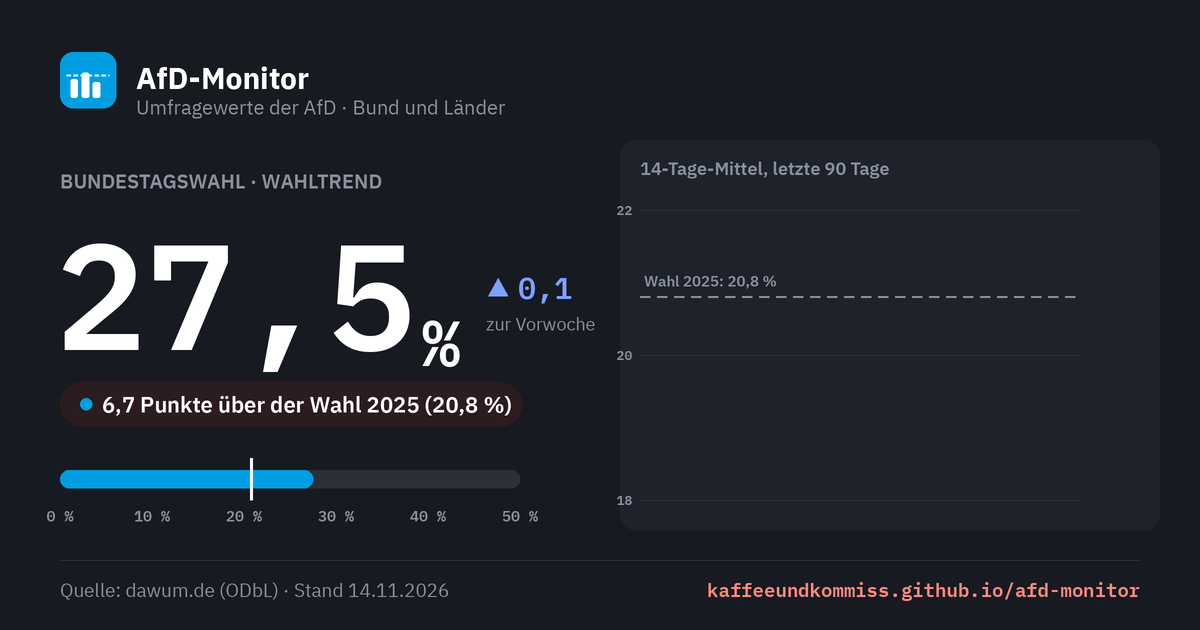
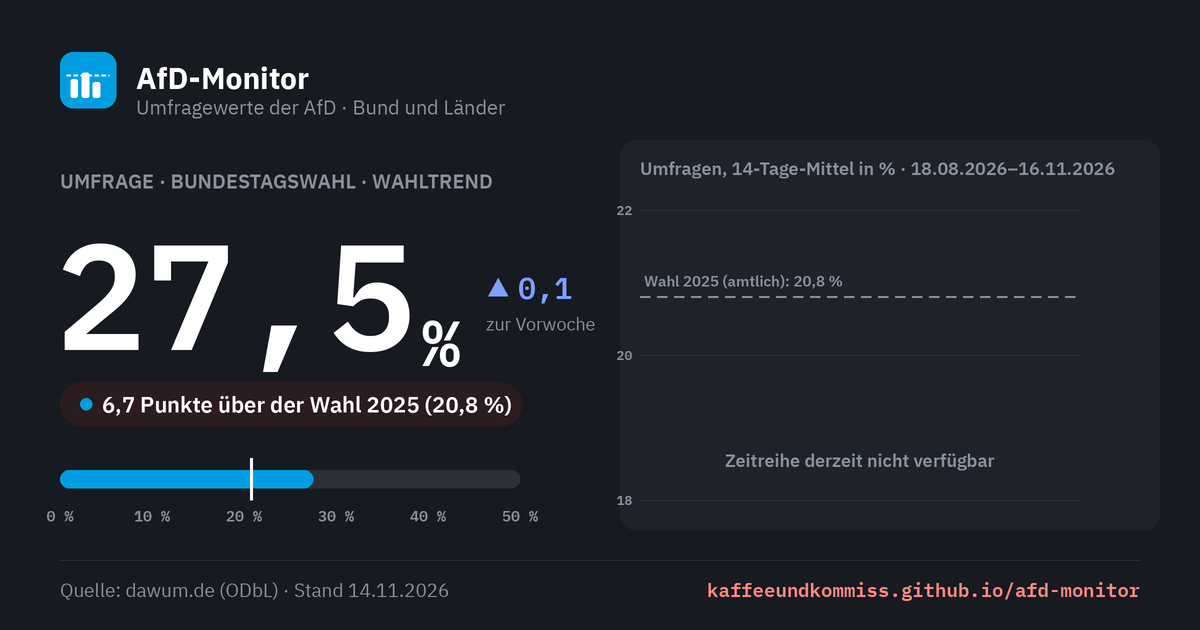
Diagramme eindeutig beschriften: Umfrage, amtliches Ergebnis, Chronik
Kennzeichen je Diagramm, Einheit, Zeitraum und Stand; Vorschaubilder
(og/make-og.py) mit derselben Kennzeichnung, damit das wöchentliche
Update die Beschriftung nicht überschreibt.

Claude-Session: https://claude.ai/code/session_01AuP7hKA5r64Vaqp6wB3yAR

diff --git a/index.html b/index.html
@@ -133,6 +133,9 @@
   .liste .lkopf{display:flex;justify-content:space-between;align-items:baseline;padding-bottom:8px;border-bottom:1px solid var(--line)}
   .liste .lkopf h3{margin:0;font-size:15px;font-weight:600}
   .liste .lkopf .skl{font-size:13px;color:var(--mute)}
+  .liste .llegende{margin:8px 0 0;font-size:13px;color:var(--mute)}
+  .abschnitt-legende{margin:6px 0 0;font-size:13px;color:var(--mute);max-width:46em}
+  .kachel .wart{font-size:12px;font-weight:600;color:var(--mute);margin-top:6px}
   .inst-zeile{display:grid;grid-template-columns:150px 1fr 60px;align-items:center;gap:14px;padding:7px 0;border-bottom:1px solid var(--hair)}
   .inst-zeile .nam{font-weight:500;font-size:14px;white-space:nowrap;overflow:hidden;text-overflow:ellipsis}
   .inst-zeile .dat{font-family:var(--mono);font-size:13px;color:var(--mute)}
@@ -240,7 +243,7 @@
   }
 .einstieg{margin:0 0 -20px;max-width:40em;color:var(--mute);font-size:16px;line-height:1.5}
 </style>
-<link rel="stylesheet" href="bereich.css?v=2">
+<link rel="stylesheet" href="bereich.css?v=3">
 </head>
 <body>
 <div class="kk-leiste"><div class="kk-in">
@@ -280,23 +283,28 @@
   <section id="bund-hero" aria-labelledby="bund-titel" data-teilen="Bundestagswahl"></section>
 
   <section id="bund-verlauf" class="karte verlauf" aria-labelledby="verlauf-titel" data-teilen="Zeitverlauf Bund" hidden>
+    <span class="art umfrage">Umfragen</span>
     <h2 id="verlauf-titel">AfD im Zeitverlauf · Bund</h2>
     <p class="sub" id="verlauf-sub">Punkte: Einzelumfragen · Linie: 14-Tage-Mittel</p>
     <div id="verlauf-chart" class="fv-chart"></div>
-    <p class="fv-quelle">Quelle: <a href="https://dawum.de/Bundestag/" rel="noopener">dawum.de</a> · 14-Tage-Mittel ungewichtet</p>
+    <p class="fv-quelle" id="verlauf-quelle">Quelle: <a href="https://dawum.de/Bundestag/" rel="noopener">dawum.de</a> (ODbL) · 14-Tage-Mittel ungewichtet</p>
   </section>
 
   <section id="anstehend" aria-labelledby="anstehend-titel" data-teilen="Anstehende Wahlen">
+    <span class="art umfrage">Umfragen</span>
     <div class="kopfzeile">
       <h2 id="anstehend-titel">Anstehende Wahlen</h2>
       <span class="hint">nächster Termin zuerst</span>
     </div>
+    <p class="abschnitt-legende">Große Zahl: Umfragewert in % (Wahltrend, sonst Ø der neuesten Umfrage je Institut), kein Ergebnis. Balken 0–50 %, gestrichelt: amtliches Ergebnis der letzten Wahl im Land.</p>
     <div class="kacheln" id="anstehend-grid" style="margin-top:16px"></div>
-    <p class="quelle">Quelle: <a href="https://dawum.de" rel="noopener">dawum.de</a> (ODbL) · ohne Wahltrend: Ø der neuesten Umfrage je Institut · Vergleich: amtliches Ergebnis der letzten Wahl im Land</p>
+    <p class="quelle">Quelle: <a href="https://dawum.de" rel="noopener">dawum.de</a> (ODbL) · ohne Wahltrend: Ø der neuesten Umfrage je Institut · Vergleich: amtliches Ergebnis der letzten Wahl im Land<span id="anstehend-stand"></span></p>
   </section>
 
   <section id="gelaufen" aria-labelledby="gelaufen-titel" data-teilen="Gelaufene Wahlen" data-quelle="amtliche Endergebnisse der Landeswahlleitungen" hidden>
+    <span class="art amtlich">Amtliche Ergebnisse</span>
     <div class="kopfzeile"><h2 id="gelaufen-titel">Gelaufene Wahlen</h2></div>
+    <p class="abschnitt-legende">Amtliche Endergebnisse in %, Quelle je Zeile. Zur Vorwahl: Veränderung in Prozentpunkten. Balken 0–50 %, gestrichelt: Ergebnis der Wahl davor.</p>
     <div class="karte tabelle" id="gelaufen-tabelle" style="margin-top:16px"></div>
   </section>
 </main>
@@ -480,6 +488,10 @@
     return '';
   }
 
+  // Kennzeichen über jedem Diagramm: Umfrage oder amtliches Ergebnis (Gestaltung in bereich.css).
+  const artMarke = (art) => art === 'amtlich'
+    ? '<span class="art amtlich">Amtliches Ergebnis</span>' : '<span class="art umfrage">Umfragen</span>';
+
   const gruppen = gruppiereEbenen(data.ebenen || [], NOW);
 
   // ---------- Bund-Hero ----------
@@ -506,6 +518,7 @@
 
     heroEl.innerHTML = `<div class="karte hero">
       <div class="zahlen">
+        ${artMarke(lz.art === 'ergebnis' ? 'amtlich' : 'umfrage')}
         <h2 class="ueberschrift" id="bund-titel">${esc(bund.name)} · ${
           lz.art === 'trend' ? 'Wahltrend' : lz.art === 'ergebnis' ? 'Amtliches Ergebnis' : 'Ø der Umfragen'}</h2>
         <div class="leitzahl">
@@ -521,7 +534,7 @@
             ${balken(lz.wert, ref, (ref ? '<div class="marklbl">Wahl ' + esc(ref.jahr) + ': ' + pz(ref.wert) + '</div>' : '') + punkte)}
           </div>
           <div class="achse"><span>0 %</span><span>10 %</span><span>20 %</span><span>30 %</span><span>40 %</span><span>50 %</span></div>
-          <div class="legende">Balken: ${lz.art === 'trend' ? 'Wahltrend' : 'Leitzahl'} · Punkte: Einzelumfragen${ref ? ' · gestrichelt: Ergebnis der Wahl ' + esc(ref.jahr) : ''}</div>
+          <div class="legende">Angaben in %. Balken: ${lz.art === 'trend' ? 'Wahltrend (Umfragen)' : lz.art === 'ergebnis' ? 'amtliches Ergebnis' : 'Ø der Umfragen'} · Punkte: Einzelumfragen${ref ? ' · gestrichelt: amtliches Ergebnis der Wahl ' + esc(ref.jahr) : ''}</div>
         </div>
         <dl class="kennzahlen">
           <div><dt>Ø neueste Umfrage je Institut</dt><dd>${lz.avg == null ? '–' : pz(lz.avg)}</dd></div>
@@ -539,6 +552,7 @@
           <div class="lkopf">
             <h3>Neueste Umfrage je Institut</h3><span class="skl">Skala 0–50 %</span>
           </div>
+          <p class="llegende">Balken: Umfragewert in %${ref ? ' · gestrichelt: amtliches Ergebnis der Wahl ' + esc(ref.jahr) : ''}</p>
           ${rows.length ? rows.slice().sort((a, b) => (b.datum || '').localeCompare(a.datum || '')).map((r) =>
             `<div class="inst-zeile">
                <div><div class="nam">${esc(r.institut)}</div><div class="dat">${dfmt(r.datum)}</div></div>
@@ -584,8 +598,17 @@
     }
     const linie = gleitendesMittel(punkte, FENSTER);
     const sub = document.getElementById('verlauf-sub');
-    if(sub) sub.textContent = `Letzte ${TAGE} Tage · Punkte: Einzelumfragen · `
-      + `Linie: ${FENSTER}-Tage-Mittel`;
+    // Zeitraum und Stand als Datum, nicht nur "letzte 90 Tage": ein Screenshot muss
+    // auch Wochen später noch sagen, welches Fenster er zeigt.
+    const refV = vw(bund);
+    const bisT = NOW || new Date();
+    const vonT = new Date(Date.UTC(bisT.getUTCFullYear(), bisT.getUTCMonth(), bisT.getUTCDate()) - TAGE * 864e5);
+    const isoT = (t) => new Date(t).toISOString().slice(0, 10);
+    if(sub) sub.textContent = `Umfragewerte Bundestagswahl in %, ${dfmt(isoT(vonT))}–${dfmt(isoT(bisT))} `
+      + `(letzte ${TAGE} Tage) · Punkte: Einzelumfragen · Linie: ${FENSTER}-Tage-Mittel`
+      + (refV ? ` · gestrichelt: amtliches Ergebnis ${refV.jahr}` : '');
+    const vq = document.getElementById('verlauf-quelle');
+    if(vq) vq.append(` · letzte Umfrage vom ${dfmt(isoT(punkte[punkte.length - 1].t))}`);
 
     const NS = 'http://www.w3.org/2000/svg';
     const el = (n, a, eltern) => { const e = document.createElementNS(NS, n);
@@ -664,7 +687,7 @@
       // Beschriftung der letzten Wahl erst nach den Punkten zeichnen: so liegt ihr Hof
       // über den Umfragepunkten und die Angabe bleibt auch am Handy lesbar.
       if(ref) el('text', {x: ml + 4, y: Y(ref.wert) - 6, 'font-size': 12, 'font-weight': 600,
-        class: 'fv-frei', fill: 'var(--fv-vorwahl)'}, svg).textContent = 'Wahl ' + ref.jahr + ': ' + fmt(ref.wert) + ' %';
+        class: 'fv-frei', fill: 'var(--fv-vorwahl)'}, svg).textContent = 'Wahl ' + ref.jahr + ' (amtlich): ' + fmt(ref.wert) + ' %';
 
       const letzte = linie[linie.length - 1];
       el('text', {x: Math.min(X(letzte.t) + 6, W - 4), y: Y(letzte.v), dy: '0.32em',
@@ -758,6 +781,7 @@
         </div>
         ${tage != null ? `<span class="tage">in ${tage} T.</span>` : ''}
       </div>
+      <div class="wart">${lz.art === 'ergebnis' ? 'Amtliches Ergebnis' : lz.art === 'trend' ? 'Umfrage · Wahltrend' : 'Umfrage · Ø'}</div>
       <div class="wert">
         <span class="num">${lz.wert == null ? '–' : pz(lz.wert)}</span>
         <span class="pill ${h.status}">${esc(datenhinweis ? 'nicht ausgewiesen' : h.kurz)}</span>
@@ -780,8 +804,8 @@
     document.getElementById('gelaufen-tabelle').innerHTML = `<table>
       <thead><tr>
         <th>Wahl</th><th>Datum</th>
-        <th style="text-align:right">Ergebnis</th>
-        ${mitTrend ? '<th style="text-align:right">Letzter Trend</th>' : ''}
+        <th style="text-align:right">Ergebnis (amtl.)</th>
+        ${mitTrend ? '<th style="text-align:right">Letzter Wahltrend (Umfrage)</th>' : ''}
         <th class="vgl" style="text-align:right">Zur Vorwahl</th>
         <th class="abstand">Ergebnis und Vorwahl</th>
       </tr></thead>
@@ -798,7 +822,7 @@
         return `<tr id="zeile-${esc(e.id)}">
           <td class="wahl">${esc(teileName(e.name).land)}${beleg}</td>
           <td class="mono">${dfmt(e.wahltermin)}</td>
-          <td class="erg">${lz.wert != null ? pz(lz.wert) + (erg.vorlaeufig ? ' *' : '') : '–'}${vgl
+          <td class="erg">${lz.wert != null ? pz(lz.wert) + (lz.art !== 'ergebnis' ? ' (Umfrage)' : erg.vorlaeufig ? ' *' : '') : '–'}${vgl
             ? '<span class="vgl-kurz">' + vgl + ' zu ' + esc(vw(e).jahr) + '</span>' : ''}</td>
           ${mitTrend ? `<td class="trend">${t.wert != null ? pz(t.wert) : '–'}</td>` : ''}
           <td class="vgl" title="${vgl ? 'Wahl ' + esc(vw(e).jahr) + ': ' + pz(vw(e).wert) : ''}">${vgl || '–'}</td>
@@ -808,6 +832,13 @@
       ${gelaufen.some((e) => (e.wahlergebnis || {}).vorlaeufig)
         ? '<p class="basis" style="padding:0 20px 14px">* vorläufiges amtliches Ergebnis</p>' : ''}`;
   }
+
+  const standSeite = SNAP ? 'Momentaufnahme ' + kwText(SNAP) : data.erstellt ? 'Stand ' + dfmt(data.erstellt) : '';
+  const ast = document.getElementById('anstehend-stand');
+  // Die Kacheln zeigen live abgerufene Umfragen, wenn dawum erreichbar war – dann gilt deren Stand.
+  const liveStand = !SNAP && db && db.Database && db.Database.Last_Update;
+  if(ast) ast.textContent = liveStand ? ' · Umfragen live, Datenbank-Stand ' + dfmt(liveStand)
+    : standSeite ? ' · ' + standSeite : '';
 
   // Link- und Bild-Knöpfe erst jetzt: die Abschnitte sind gerendert, und ein #Anker
   // aus einem geteilten Link kann angesprungen werden.

diff --git a/partei-seite.js b/partei-seite.js
@@ -15,6 +15,8 @@
       .map((b) => `<a href="${esc(b.url)}" rel="noopener">${esc(b.name)}</a>`);
     const hinweis = (d.belege_hinweis || {})[k];
     const teile = [links.length ? 'Quelle: ' + links.join(' · ') : '', hinweis ? esc(hinweis) : ''].filter(Boolean);
+    if(teile.length && d.stand && ['wahlen', 'zeitleiste', 'vorsitz'].includes(k))
+      teile.push('· Stand ' + dfmt(d.stand) + ' (zuletzt geprüft)');
     if(teile.length) p.innerHTML = teile.join(' '); else p.remove();
   });
 
@@ -66,8 +68,8 @@
   if(k && $('kennzahlen')){
     const regierung = d.wahlen.filter((w) => w.rolle === 'Regierung').length;
     document.getElementById('kennzahlen').innerHTML = [
-      ['Bestes Ergebnis', fmt(k.best.ergebnis) + ' %', 'Bundestagswahl ' + k.best.jahr, ''],
-      ['Letztes Ergebnis', fmt(k.letzte.ergebnis) + ' %', 'Bundestagswahl ' + k.letzte.jahr + ' · ' + k.letzte.rolle, ''],
+      ['Bestes Ergebnis', fmt(k.best.ergebnis) + ' %', 'Bundestagswahl ' + k.best.jahr + ' · amtlich', ''],
+      ['Letztes Ergebnis', fmt(k.letzte.ergebnis) + ' %', 'Bundestagswahl ' + k.letzte.jahr + ' · amtlich · danach ' + k.letzte.rolle, ''],
       ['In Regierung danach', regierung + ' von ' + k.anzahl, 'Wahlperioden nach den Wahlen ' + d.wahlen[0].jahr + '–' + k.letzte.jahr, ''],
     ].map(([l, n, s, c]) => `<div class="karte"><div class="lbl">${esc(l)}</div><div class="num ${c}">${esc(n)}</div><div class="sub">${esc(s)}</div></div>`).join('');
   }
@@ -80,6 +82,10 @@
     document.querySelector('#tabelle-vs tbody').innerHTML = (vs.schritte || []).map((x) =>
       `<tr><td class="datum">${dfmt(x.datum)}</td><td>${esc(x.stelle)}</td><td>${esc(x.schritt)}</td><td>${esc(x.rechtsstand)}</td></tr>`).join('');
   }
+
+  // ---------- Zeitraum je Diagramm (Titel/Untertitel) ----------
+  if((d.wahlen || []).length && $('wahlen-titel'))
+    $('wahlen-titel').textContent = 'Bundestagswahlen ' + d.wahlen[0].jahr + '–' + d.wahlen[d.wahlen.length - 1].jahr;
 
   // ---------- Bundesvorsitzende: Kennzahlen und Tabelle ----------
   // Laufende Amtszeit zählt bis heute, deshalb einmal beim Laden berechnet.
@@ -114,6 +120,7 @@
     const mt = 4, mb = 24, zh = 24, H = mt + zeiten.length * zh + mb;
     svg.setAttribute('viewBox', `0 0 ${W} ${H}`);
     const von = Date.UTC(Math.min(...zeiten.map((z) => new Date(z.a).getUTCFullYear())), 0, 1), bis = Math.max(...zeiten.map((z) => z.b));
+    if($('vorsitz-zeitraum')) $('vorsitz-zeitraum').textContent = 'Zeitraum ' + new Date(von).getUTCFullYear() + ' bis heute, x-Achse in Jahren. ';
     const X = (t) => ml + (t - von) / (bis - von) * (W - ml - mr);
     const tip = tooltip(host);
     // Achsenschritt nach Spannweite: bei wenigen Jahren (AfD seit 2013) alle zwei bzw. vier Jahre.
@@ -139,7 +146,7 @@
   function wahlen(){
     const host = document.getElementById('chart-wahlen'); host.replaceChildren();
     const rows = d.wahlen, W = Math.max(280, host.clientWidth), H = 250, schmal = W < 420;
-    const ml = 30, mr = 6, mt = 22, mb = 26;
+    const ml = schmal ? 30 : 42, mr = 6, mt = 22, mb = 26;
     const yMax = Math.max(16, Math.ceil(Math.max(...rows.map((r) => r.ergebnis)) / 10) * 10);
     const band = (W - ml - mr) / rows.length, bw = Math.min(32, band * 0.62);
     const X = (i) => ml + i * band + band / 2, Y = (v) => H - mb - v / yMax * (H - mt - mb);
@@ -148,7 +155,7 @@
     const tip = tooltip(host);
     for(let v = 0; v <= yMax; v += 10){
       el('line', {x1: ml, x2: W - mr, y1: Y(v), y2: Y(v), stroke: 'var(--line)'}, svg);
-      txt(svg, {x: ml - 6, y: Y(v), dy: '0.32em', 'text-anchor': 'end'}, v);
+      txt(svg, {x: ml - 6, y: Y(v), dy: '0.32em', 'text-anchor': 'end'}, schmal ? v : v + ' %');
     }
     rows.forEach((r, i) => {
       const b = el('rect', {x: X(i) - bw / 2, y: Y(r.ergebnis), width: bw, height: Y(0) - Y(r.ergebnis),
@@ -170,6 +177,7 @@
     const host = document.getElementById('chart-zeit'); host.replaceChildren();
     const jetzt = new Date();
     const von = Date.UTC(d.zeitleiste_ab || 1998, 0, 1), bis = Date.UTC(jetzt.getUTCFullYear(), jetzt.getUTCMonth(), jetzt.getUTCDate());
+    if($('zeit-zeitraum')) $('zeit-zeitraum').textContent = 'Zeitraum ' + new Date(von).getUTCFullYear() + ' bis heute. ';
     const balken = PU.zeitBalken(d.zeitleiste, von, bis);
     const W = Math.max(280, host.clientWidth), ml = 4, mr = 4, mt = 4, mb = 24, lh = 26, kopf = 16;
     const H = mt + SPUREN.length * (lh + kopf + 4) + mb;

diff --git a/partei.html b/partei.html
@@ -33,7 +33,7 @@
 <link href="https://fonts.googleapis.com/css2?family=Barlow+Condensed:wght@500;600;700&family=IBM+Plex+Sans:wght@400;500;600;700&family=IBM+Plex+Mono:wght@400;500;600&display=swap" rel="stylesheet">
 <link rel="stylesheet" href="basis.css">
 <link rel="stylesheet" href="partei.css?v=2">
-<link rel="stylesheet" href="bereich.css?v=2">
+<link rel="stylesheet" href="bereich.css?v=3">
 </head>
 <body>
 <div class="kk-leiste"><div class="kk-in">
@@ -73,8 +73,9 @@
   <section class="kennzahlen" id="kennzahlen" aria-label="Kennzahlen"></section>
 
   <section class="karte diagramm" id="bundestagswahlen" aria-labelledby="wahlen-titel" data-teilen="Bundestagswahlen" data-quelle="Bundeswahlleiterin">
+    <span class="art amtlich">Amtliche Ergebnisse</span>
     <h2 id="wahlen-titel">Bundestagswahlen</h2>
-    <p class="sub">Zweitstimmen in Prozent. Farbe: Rolle in der folgenden Wahlperiode.</p>
+    <p class="sub">Amtliche Endergebnisse, keine Umfragen: Zweitstimmenanteil in %. Farbe: Rolle in der folgenden Wahlperiode.</p>
     <div class="chart" id="chart-wahlen"></div>
     <div class="legende" id="legende-wahlen"></div>
     <p class="quelle" data-beleg="wahlen"></p>
@@ -82,8 +83,9 @@
 
 
   <section class="karte diagramm" id="zeitleiste" aria-labelledby="zeit-titel" data-teilen="Vorsitz, Programme, Rolle im Bund" data-quelle="bpb, Bundeswahlleiterin">
+    <span class="art chronik">Chronik</span>
     <h2 id="zeit-titel">Vorsitz, Programme, Rolle im Bund</h2>
-    <p class="sub">Senkrechte Linien: Bundestagswahlen.</p>
+    <p class="sub"><span id="zeit-zeitraum"></span>Senkrechte Linien: Bundestagswahlen.</p>
     <div class="chart" id="chart-zeit"></div>
     <div class="legende" id="legende-zeit"></div>
     <dl class="zeit-schluessel" id="schluessel-zeit" hidden></dl>
@@ -97,8 +99,9 @@
     </div>
     <div class="kennzahlen" id="vorsitz-kennzahlen"></div>
     <div class="karte diagramm" id="vorsitzende" data-teilen="Parteivorsitz" data-quelle="bpb, Presse">
+      <span class="art chronik">Chronik</span>
       <h2 id="vorsitz-chart-titel">Amtszeiten im Zeitstrahl</h2>
-      <p class="sub">Amtsdauer in Jahren je Amtszeit. Blau: amtierend, bis heute gerechnet; grau: abgeschlossen. Die AfD hat eine Doppel- bzw. Dreierspitze (Bundessprecher, seit 2022 Bundesvorsitzende); ein Eintrag steht für eine Besetzung der Spitze.</p>
+      <p class="sub"><span id="vorsitz-zeitraum"></span>Amtsdauer in Jahren je Amtszeit. Blau: amtierend, bis heute gerechnet; grau: abgeschlossen. Die AfD hat eine Doppel- bzw. Dreierspitze (Bundessprecher, seit 2022 Bundesvorsitzende); ein Eintrag steht für eine Besetzung der Spitze.</p>
       <div class="chart" id="chart-vorsitz"></div>
       <details class="vtab">
         <summary>Alle Amtszeiten als Tabelle</summary>

diff --git a/tests/e2e/polls.spec.js b/tests/e2e/polls.spec.js
@@ -455,7 +455,7 @@ test.describe("Zeitverlauf Bund", () => {
 
   test("markiert die letzte Bundestagswahl gestrichelt und beschriftet sie", async ({ page }) => {
     await mitVerlauf(page);
-    await expect(page.locator("#verlauf-chart text", { hasText: "Wahl 2025: 4,3 %" })).toHaveCount(1);
+    await expect(page.locator("#verlauf-chart text", { hasText: "Wahl 2025 (amtlich): 4,3 %" })).toHaveCount(1);
     await expect(page.locator('#verlauf-chart line[stroke-dasharray]')).toHaveCount(1);
   });
 
@@ -523,7 +523,7 @@ test.describe("Zeitverlauf Bund", () => {
 
   test("nennt den Zeitraum in der Unterzeile", async ({ page }) => {
     await mitVerlauf(page);
-    await expect(page.locator("#verlauf-sub")).toContainText("Letzte 90 Tage");
+    await expect(page.locator("#verlauf-sub")).toContainText("letzte 90 Tage");
   });
 
   test.describe("mobil", () => {
@@ -564,5 +564,24 @@ test.describe("Zeitverlauf Bund", () => {
       expect(tip.y).toBeGreaterThanOrEqual(chart.y - 1);
       expect(tip.y + tip.height).toBeLessThanOrEqual(chart.y + chart.height + 1);
     });
+  });
+});
+
+// Umfragewerte, Wahlergebnisse und Zeitverlauf dürfen nicht verwechselt werden:
+// jeder Abschnitt trägt ein Kennzeichen als Text, Kacheln und Tabelle zusätzlich je Wert.
+test.describe("Kennzeichnung der Diagramme", () => {
+  test("Umfragen und amtliche Ergebnisse sind je Abschnitt gekennzeichnet", async ({ page }) => {
+    await seite(page);
+    await expect(page.locator("#bund-hero .art")).toHaveText("Umfragen");
+    await expect(page.locator("#bund-verlauf .art")).toHaveText("Umfragen");
+    await expect(page.locator("#anstehend .art")).toHaveText("Umfragen");
+    await expect(page.locator("#gelaufen .art")).toHaveText("Amtliche Ergebnisse");
+    await expect(page.locator("#gelaufen-tabelle thead")).toContainText("Ergebnis (amtl.)");
+    await expect(page.locator("#anstehend .kachel .wart").first()).toContainText("Umfrage");
+  });
+
+  test("die Quelle der Kacheln nennt den Stand", async ({ page }) => {
+    await seite(page);
+    await expect(page.locator("#anstehend .quelle")).toContainText("Stand");
   });
 });

diff --git a/tests/e2e/partei.spec.js b/tests/e2e/partei.spec.js
@@ -82,3 +82,16 @@ test("Verfassungsschutz: Rechtsstand und alle Schritte mit Quellen", async ({ pa
   await expect(page.locator("#tabelle-vs tbody tr")).toHaveCount(5);
   await expect(page.locator("#verfassungsschutz .quelle a").first()).toHaveAttribute("href", /vg-koeln\.nrw\.de/);
 });
+
+test("Diagramme der Parteiseite: Kennzeichen, Einheit, Zeitraum und Stand", async ({ page }) => {
+  await page.goto("/partei.html");
+  await expect(page.locator("#chart-wahlen rect").first()).toBeVisible();
+  await expect(page.locator("#bundestagswahlen .art")).toHaveText("Amtliche Ergebnisse");
+  await expect(page.locator("#wahlen-titel")).toHaveText(/^Bundestagswahlen \d{4}–\d{4}$/);
+  await expect(page.locator("#chart-wahlen text", { hasText: /^0 %$/ })).toHaveCount(1);
+  await expect(page.locator("#bundestagswahlen .quelle")).toContainText("Stand");
+  await expect(page.locator("#zeitleiste .art")).toHaveText("Chronik");
+  await expect(page.locator("#zeit-zeitraum")).toContainText("bis heute");
+  await expect(page.locator("#vorsitzende .art")).toHaveText("Chronik");
+  await expect(page.locator("#vorsitz-zeitraum")).toContainText("bis heute");
+});

diff --git a/bereich.css b/bereich.css
@@ -50,3 +50,12 @@
 
 /* Monitorname ist auf der Umfrageseite die Hauptüberschrift (h1) */
 .marke h1.name { margin: 0 }
+
+/* Kennzeichen über Diagrammen (22.11.2026): Umfrage, amtliches Ergebnis oder Chronik.
+   Als Text, nicht nur als Farbe, damit es auch in Graustufen und auf Screenshots eindeutig ist.
+   Umfragen gestrichelt (Schätzung), amtliche Ergebnisse vollflächig (festgestellt). */
+.art { display: inline-block; margin: 0 0 8px; padding: 3px 7px; font: 600 11px/1.3 var(--mono, monospace);
+  letter-spacing: .08em; text-transform: uppercase; border: 1px solid; border-radius: 0; white-space: nowrap }
+.art.umfrage { color: var(--kk-akzent, #1E4FD8); border-style: dashed; background: #FFFFFF }
+.art.amtlich { color: #FFFFFF; background: #000000; border-color: #000000 }
+.art.chronik { color: #555555; border-color: #D6D6D6; background: #FFFFFF }

diff --git a/tests/e2e/teilen.spec.js b/tests/e2e/teilen.spec.js
@@ -65,7 +65,7 @@ test.describe("Belege und Einordnung", () => {
 
   test("ohne Trendwerte gibt es keine leere Trend-Spalte", async ({ page }) => {
     await laden(page);
-    await expect(page.locator("#gelaufen-tabelle th")).not.toContainText(["Letzter Trend"]);
+    await expect(page.locator("#gelaufen-tabelle th")).not.toContainText(["Letzter Wahltrend"]);
   });
 
   test("ein Wert aus nur einer Umfrage ist als wenig belastbar markiert, auch am Handy", async ({ page }) => {

diff --git a/og/make-og.py b/og/make-og.py
@@ -132,7 +132,7 @@ def bild_umfragen(data, pfad):
     c = Leinwand()
     c.kopf("Umfragewerte der AfD · Bund und Länder")
 
-    c.text(60, 168, ("Bundestagswahl · " + art).upper(), HALB(20), GRAU)
+    c.text(60, 168, ("Umfrage · Bundestagswahl · " + art).upper(), HALB(20), GRAU)
     num = "–" if wert is None else fmt(wert)
     c.text(56, 196, num, MONO(150), WEISS)
     nx = 56 + c.breite(num, MONO(150))
@@ -179,7 +179,8 @@ def bild_umfragen(data, pfad):
     linie, ab, bis = mittel_14(((bund.get("verlauf") or {}).get("rows") or []), stichtag=erstellt)
     gx0, gx1, gy0, gy1 = 640, 1140, 190, 500
     c.rect(gx0 - 20, gy0 - 50, gx1 + 20, gy1 + 30, "#1E222B", 16)
-    c.text(gx0, gy0 - 22, "14-Tage-Mittel, letzte 90 Tage", HALB(18), GRAU, "lm")
+    c.text(gx0, gy0 - 22, f"Umfragen, 14-Tage-Mittel in % · {dfmt(ab.isoformat())}–{dfmt(bis.isoformat())}",
+           HALB(18), GRAU, "lm")
     werte = [v for _, v in linie] + ([rw] if rw is not None else [])
     ymin = max(0, int(min(werte or [0])) - 2)
     ymax = max(ymin + 4, int(max(werte or [4])) + 2)
@@ -190,11 +191,13 @@ def bild_umfragen(data, pfad):
         c.text(gx0 - 8, Y(v), f"{v}", MONO(13), GRAU, "rm")
     if rw is not None:
         c.gestrichelt(gx0, gx1 - 60, Y(rw), GRAU, 2)
-        c.text(gx0 + 4, Y(rw) - 16, f"Wahl {ref.get('jahr', '')}: {fmt(rw)} %", HALB(15), GRAU, "lm")
+        c.text(gx0 + 4, Y(rw) - 16, f"Wahl {ref.get('jahr', '')} (amtlich): {fmt(rw)} %", HALB(15), GRAU, "lm")
     if len(linie) >= 2:
         c.line([(X(t), Y(v)) for t, v in linie], WEISS, 3.5)
         t, v = linie[-1]
         c.text(X(t) + 10, Y(v), fmt(v) + " %", MONO(20), WEISS, "lm")
+    else:
+        c.text((gx0 + gx1 - 60) / 2, gy1 - 40, "Zeitreihe derzeit nicht verfügbar", HALB(18), GRAU, "mm")
 
     c.fuss(f"Quelle: dawum.de (ODbL) · Stand {dfmt(stand) if stand else 'unbekannt'}")
     c.speichern(pfad)
@@ -205,7 +208,7 @@ def bild_partei(partei, pfad):
     c.kopf("Die AfD auf Bundesebene")
     wahlen = partei["wahlen"]
     erste, letzte = wahlen[0], wahlen[-1]
-    c.text(60, 168, f"BUNDESTAGSWAHLEN {erste['jahr']}–{letzte['jahr']} · ZWEITSTIMMEN", HALB(20), GRAU)
+    c.text(60, 168, f"BUNDESTAGSWAHLEN {erste['jahr']}–{letzte['jahr']} · AMTLICHE ERGEBNISSE IN %", HALB(20), GRAU)
     beste = max(wahlen, key=lambda w: w["ergebnis"])
     c.text(60, 214, f"Bestes Ergebnis {fmt(beste['ergebnis'])} % ({beste['jahr']})", HALB(26), WEISS)
     c.text(60, 254, f"Zuletzt {fmt(letzte['ergebnis'])} % ({letzte['jahr']})", HALB(26), "#FF8A80")

diff --git a/README.md b/README.md
@@ -11,3 +11,10 @@ pip install -r requirements-dev.txt && pytest              # update.py
 npm install && npm test                                    # monitor-utils.js, partei-utils.js (Vitest)
 npm install && npx playwright install chromium && npm run test:e2e   # index.html, partei.html (Playwright)
 ```
+
+## Diagrammbeschriftung (seit 22.11.2026)
+
+Jedes Diagramm trägt ein Kennzeichen als Text (`.art` in `bereich.css`): **Umfragen** (gestrichelter Rahmen),
+**Amtliche Ergebnisse** (schwarz) oder **Chronik**. Dazu Titel, Einheit (%), Zeitraum, Quelle und Stand.
+Die Texte stehen in `index.html`, `partei.html`, `partei-seite.js` und `og/make-og.py`; `update.py` schreibt nur Daten
+und überschreibt sie nicht. Vergleichslinien heißen „Wahl JJJJ (amtlich)“.
